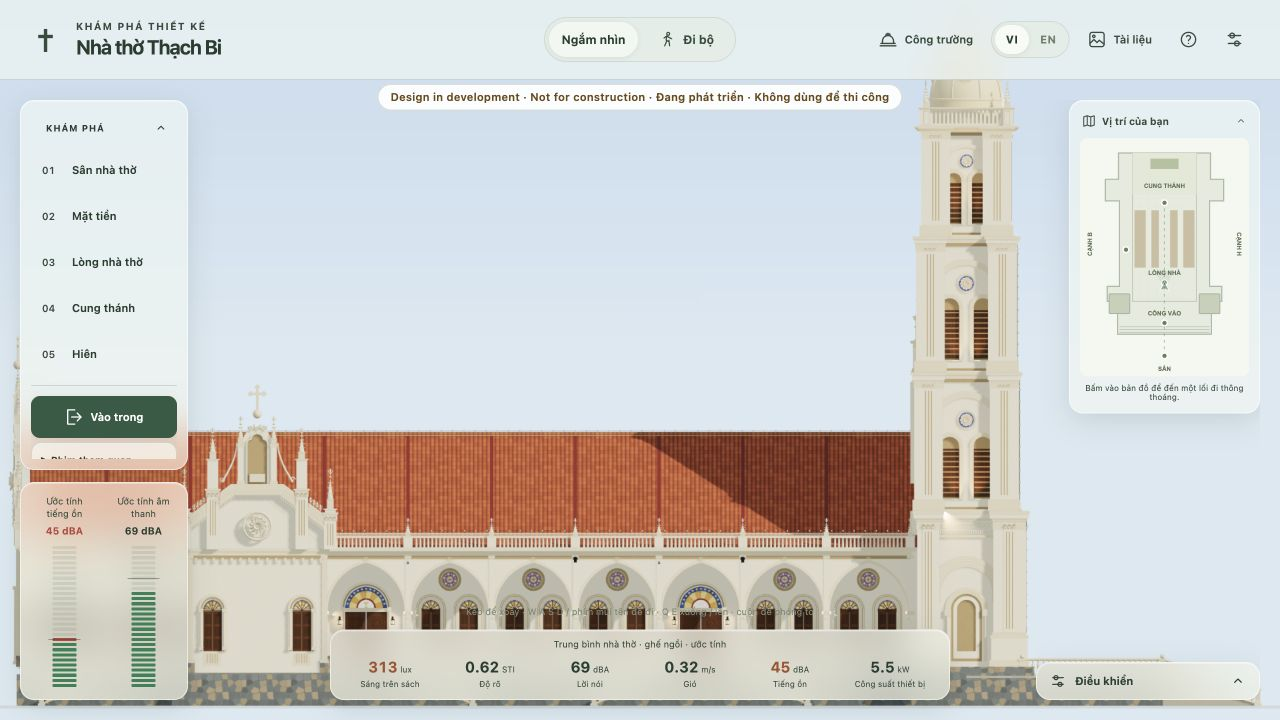
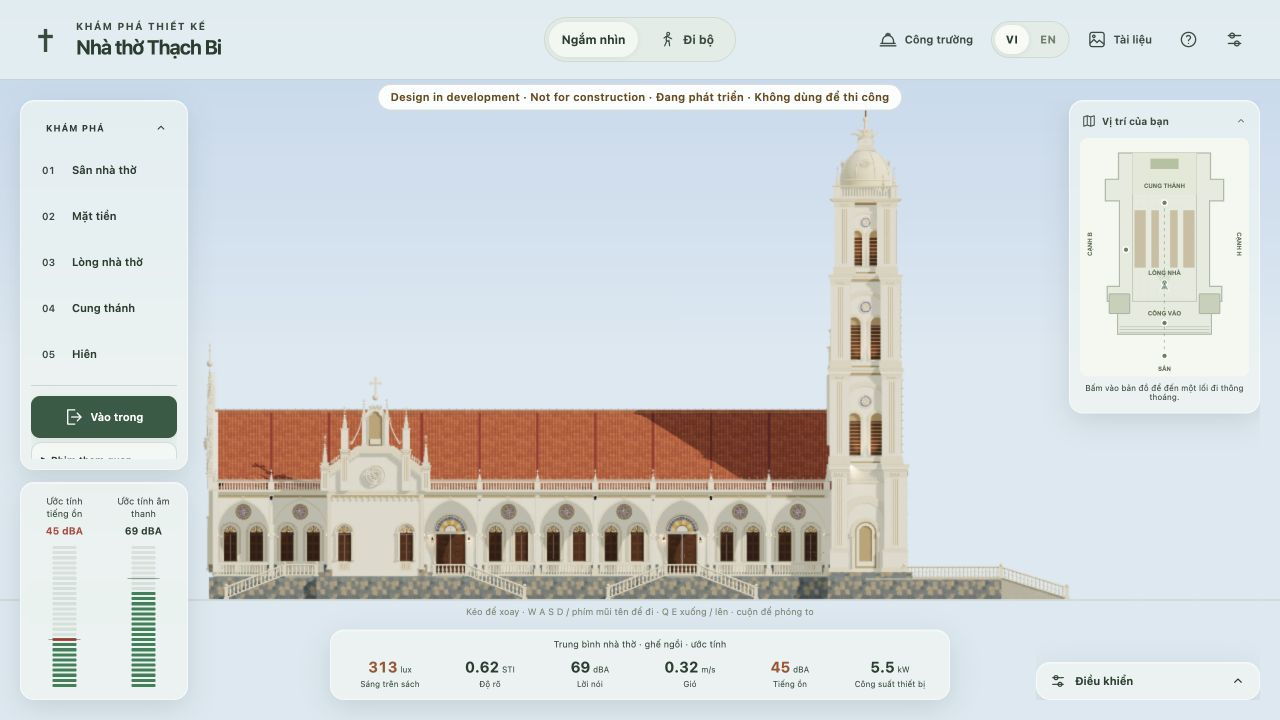
Add provisional landscape context around the church
Add unsurveyed grass and soil inside the existing tree beds, keeping the forecourt and modeled approach envelope clear. Rename the existing visibility control in English and Vietnamese, document the landscape's site-design limits, and refresh viewer script versions.

Replace roof-review screenshots after discovering cached scripts, and mark the earlier tile captures as inconclusive. Checks on the existing working tree: verify_landscape, verify_model --plan, verify_simulator --report --estimates, verify_texture_memory, web viewer inventory, lint, typecheck and 116 unit tests; desktop visit-only day/evening and landscape switch in both languages; git diff --check. Known light, sound, ventilation, concealment and other engineering holds remain open.

diff --git a/Thach_Bi_Viewer/realism.js b/Thach_Bi_Viewer/realism.js
@@ -693,6 +693,28 @@
     const landscape=new T.Group();landscape.name='Two rows of courtyard trees';building.add(landscape);
     const bark=new T.MeshStandardMaterial({color:'#66513a',roughness:1});
     const foliage=['#344a26','#496230','#627846'].map(color=>new T.MeshStandardMaterial({color,roughness:1,side:T.DoubleSide}));
+    // Presentation-only landscape: the site has not been surveyed. Keep the
+    // existing stair approaches and forecourt on their original surface.
+    const grassCanvas=document.createElement('canvas');grassCanvas.width=grassCanvas.height=256;
+    const grassContext=grassCanvas.getContext('2d');grassContext.fillStyle='#7c8d65';grassContext.fillRect(0,0,256,256);
+    let grassSeed=30102026;const grassRand=()=>{grassSeed=(Math.imul(grassSeed,1664525)+1013904223)>>>0;return grassSeed/4294967296;};
+    for(let i=0;i<4500;i++){
+      const x=grassRand()*256,y=grassRand()*256,light=grassRand()>.5;
+      grassContext.fillStyle=light?'rgba(194,204,155,.13)':'rgba(45,67,34,.13)';
+      grassContext.fillRect(x,y,1+grassRand()*2,1+grassRand()*3);
+    }
+    const grassMap=window.CHURCH_TEXTURES?.create(T,grassCanvas)||new T.CanvasTexture(grassCanvas);
+    grassMap.colorSpace=T.SRGBColorSpace;grassMap.wrapS=grassMap.wrapT=T.RepeatWrapping;grassMap.repeat.set(.18,.18);grassMap.anisotropy=anisotropy;
+    const grass=new T.MeshStandardMaterial({name:'Proposed grass · presentation only',map:grassMap,roughness:1,side:T.DoubleSide});
+    const soil=new T.MeshStandardMaterial({name:'Proposed tree-bed soil',color:'#5e4b35',roughness:1});
+    const bedGeo=new T.CircleGeometry(.66,32);
+    for(const sign of [-1,1]) {
+      const edge=[[-244,22.4],[-12,22.4],[3,22.35],[16,22.5],[30,22.35],[44,22.5],[58,22.4],[284,22.4]];
+      const outline=edge.concat([[284,177],[-244,177]]).map(([x,z])=>new T.Vector2(x,-sign*z));
+      const lawn=mesh(new T.ShapeGeometry(new T.Shape(outline)),grass,landscape,'Proposed lawn beyond courtyard');
+      lawn.rotation.x=-Math.PI/2;lawn.position.y=-2.025;lawn.castShadow=false;
+      lawn.userData={status:'CONCEPT / UNSURVEYED LANDSCAPE',source:'Illustrative site context; final grading and access pending'};
+    }
     const crownGeo=new T.IcosahedronGeometry(1,1);
     const leafShape=new T.Shape();leafShape.moveTo(0,-.5);leafShape.quadraticCurveTo(.35,0,0,.5);leafShape.quadraticCurveTo(-.35,0,0,-.5);
     const leafGeo=new T.ShapeGeometry(leafShape,3);
@@ -714,6 +736,8 @@
           blade.scale.set(.7,.7,.7);blade.rotation.set(rand()*6,rand()*6,rand()*6);
         }
       }
+      const bed=mesh(bedGeo,soil,landscape,'Tree bed soil · presentation concept');bed.rotation.x=-Math.PI/2;bed.position.set(x,-1.99,z);bed.castShadow=false;
+      bed.userData={status:'CONCEPT / UNSURVEYED LANDSCAPE',source:'Existing proposed tree rows; final planting and drainage pending'};
       const curb=mesh(new T.TorusGeometry(.72,.07,6,24),mat.trim,landscape,'Tree bed stone edging');curb.rotation.x=Math.PI/2;curb.position.set(x,-2.045,z);
     }
     // The central facade above the cornice follows the CAD file of 23 Oct 2026 (facade.js).
@@ -798,7 +822,7 @@
     data.assumptions.push('Exterior side doors now occupy the same outer wall plane as the windows, following the latest user correction. Doors open in Walk mode. Tower front arches remain open with the existing rear wall plane visible beyond.');
     data.assumptions.push('The sanctuary frame uses the three-lobed central and side arch silhouettes from section sheet 5. Curvature, relief depth and placement at axis 10 remain visual reconstructions pending a detailed longitudinal section.');
     data.assumptions.push('Side access follows the plan and the corrected side reference: paired flights at the first doorway, single flights flanking the projecting bay. Stair count, tread run, balustrade profiles and exact landing edges are proposed.');
-    data.assumptions.push('Ivory plaster, stone trim, terracotta tiles, rubble plinth and timber shafts follow the selected images. All maps are generated locally at physical scale; these are proposed finishes. Two rows of eight trees are landscaping proposals.');
+    data.assumptions.push('Ivory plaster, stone trim, terracotta tiles, rubble plinth and timber shafts follow the selected images. The finishes are proposed. Two rows of eight trees, lawn and tree-bed soil are unsurveyed presentation concepts; grading, planting, drainage and circulation require site design.');
     ctx.palettes=new Map();for(const m of materialScale.keys())ctx.palettes.set(m,{color:m.color.clone(),map:m.map,bump:m.bumpMap});
     api.stats={sideFlights:8,sideLandings:6,texturedMaterials:materialScale.size,lightGraphics};
     api.measurements=data.refinement;

diff --git a/Thach_Bi_Viewer/OPEN_CHURCH.html b/Thach_Bi_Viewer/OPEN_CHURCH.html
@@ -40,7 +40,7 @@
 <aside id="settingsPanel" class="settings-panel" hidden><div class="panel-title"><strong>View settings</strong><button id="closeSettings" class="close-button" aria-label="Close settings">×</button></div>
  <h3>Atmosphere</h3><div class="lighting-switch"><button id="dayLighting" class="active">☀ Day</button><button id="eveningLighting">☾ Evening</button></div>
  <label class="switch-row"><span>Show roof</span><input id="roofToggle" type="checkbox" checked></label><label class="switch-row"><span>Reference materials</span><input id="colorToggle" type="checkbox" checked></label><label class="switch-row"><span>Drawing grid</span><input id="gridToggle" type="checkbox"></label>
- <label class="switch-row"><span>Show trees</span><input id="treesToggle" type="checkbox" checked></label>
+ <label class="switch-row"><span>Show landscaping</span><input id="treesToggle" type="checkbox" checked></label>
  <label class="switch-row"><span>Doors &amp; windows</span><select id="openingsMode"><option value="auto">Open when walking</option><option value="open">Open</option><option value="closed">Closed</option></select></label>
  <label class="switch-row"><span>Timber frame</span><select id="frameStyle"><option value="drawn">As drawn (PDF)</option><option value="reference">Reference image</option></select></label>
  <label class="switch-row"><span>Window glass</span><select id="glassMode"><option value="clear">Clear</option><option value="stained" selected>Coloured</option></select></label>
@@ -101,7 +101,7 @@
 </div></div></section>
 <noscript><div class="startup-noscript"><h2>Open the interactive viewer in your browser</h2><p>This 3D model needs JavaScript and WebGL 2. A file preview may not run it.</p><p><a href="references/03-facade/native/2026-10-24-02-front-corner-day.png">View the exterior image</a> · <a href="references/00-overview/full-hd/2026-10-07-05-nave-overview-day.png">View the interior image</a></p></div></noscript>
 <script src="i18n.js?v=20261018-language-2"></script>
-<script src="i18n-vi.js?v=20261025-zones-1"></script>
+<script src="i18n-vi.js?v=20261030-landscape-1"></script>
 <script src="references.js?v=20261024-facade-images-1"></script>
 <script src="texture-memory.js?v=20261007-performance-5"></script>
 <script src="glass-art.js?v=20261006-clear-body-1"></script>
@@ -115,8 +115,8 @@
 <script src="porches.js?v=20261026-exterior-23102026-2"></script>
 <script src="stations.js?v=20261025-stations-2"></script>
 <script src="towers.js?v=20261026-exterior-23102026-4"></script>
-<script src="roofline.js?v=20261026-exterior-23102026-2"></script>
-<script src="realism.js?v=20261026-exterior-23102026-2"></script>
+<script src="roofline.js?v=20261030-roof-ends-1"></script>
+<script src="realism.js?v=20261030-landscape-3"></script>
 <script src="planning.js?v=20261007-sanctuary-21"></script>
 <script src="simulator/physics.js?v=20261006-estimates-1"></script>
 <script src="wing-saint-textures.js?v=20261009-native-offline-1"></script>

diff --git a/Thach_Bi_Viewer/i18n-vi.js b/Thach_Bi_Viewer/i18n-vi.js
@@ -45,7 +45,7 @@
     'Show roof': 'Hiện mái',
     'Reference materials': 'Vật liệu tham khảo',
     'Drawing grid': 'Lưới bản vẽ',
-    'Show trees': 'Hiện cây',
+    'Show landscaping': 'Hiện cảnh quan',
     'Doors & windows': 'Cửa đi & cửa sổ',
     'Open when walking': 'Mở khi đi bộ',
     'Open': 'Mở',

diff --git a/docs/decoration-finishes.md b/docs/decoration-finishes.md
@@ -50,7 +50,13 @@ The browser tool denied both the local preview origin and the user-opened file U
 
 The existing locally generated terracotta tile map in `realism.js` now gives the exposed ends a shallow rounded outline, a fine lip and restrained firing variation. The colour and bump maps use the same tile outline; the existing roof geometry, UV scale, material settings and random sequence for other finishes are retained. This is an illustrative surface treatment informed by the project's [appearance references](church-view-renderings.md), not a surveyed tile profile, selected product or evidence of age or condition. Tile dimensions, thickness, roof assembly, drainage, loads and fixing remain for the responsible designers; see the [roof specification](beams-roof-connections/SPECIFICATION.md).
 
-The texture changes no equipment, electrical line or position, collision, analysis input, plan geometry or drawing dimension, so the electrical registers, schedules and plan export need no refresh. Existing engineering holds, including the [central-view constraint](engineering/central-view-constraint.md), remain open. The viewer was inspected on desktop in visit-only mode in daylight and evening; the roof is dark in the existing evening scene. This is a visual review, not measured illumination or construction approval. The [website viewer contract](web/viewer.md) remains applicable.
+The texture changes no equipment, electrical line or position, collision, analysis input, plan geometry or drawing dimension, so the electrical registers, schedules and plan export need no refresh. Existing engineering holds, including the [central-view constraint](engineering/central-view-constraint.md), remain open. The initial desktop images may have used a cached script and do not prove the revised texture appeared; see the [evidence caution](../review/roof-finish-2026-10-30/README.md). The roof is dark in the existing evening scene. Visual review is not measured illumination or construction approval. The [website viewer contract](web/viewer.md) remains applicable.
+
+## Surrounding landscape · 30 October 2026
+
+The existing two rows of eight proposed trees now stand in soil within their existing stone rings, with a locally generated grass surface beyond the courtyard on both sides. The grass starts beyond `|Z| 22.3 m`; the existing model's side-stair approach envelope reaches `|Z| 21 m`. The forecourt and approaches keep the existing paving, and tree positions do not move. The grass is raised slightly above the presentation ground to avoid display depth conflicts; this is a rendering offset, not a site level. **CONCEPT / UNSURVEYED:** neither the grass edge nor the trees, grades, drainage, planting, accessible routes or actual site boundaries are surveyed or approved. A site designer and the parish must resolve them together.
+
+The existing tree visibility switch is now named **Show landscaping / Hiện cảnh quan** because it hides the grass and tree beds as well as the trees. `treesToggle` remains the same control ID. No equipment, electrical line, calculated boundary, walk collision or building dimension changes; plan and electrical exports do not encode the presentation planting. The existing category registers and their concurrent edits are untouched. See the [desktop review](../review/grounds-2026-10-30/README.md). The [web viewer contract](web/viewer.md), [central-view constraint](engineering/central-view-constraint.md), [roof specification](beams-roof-connections/SPECIFICATION.md) and [appearance references](church-view-renderings.md) were checked; no engineering hold is closed.
 
 ## Outstanding review
 

diff --git a/review/grounds-2026-10-30/README.md b/review/grounds-2026-10-30/README.md
@@ -1,0 +1,18 @@
+# Surrounding landscape review · 30 October 2026
+
+**CONCEPT · In development / Đang phát triển · Not for construction / Không dùng để thi công.**
+
+Desktop visit-only views of the [daylight](day.jpg), [roof detail](roof-detail.jpg) and [evening](evening.jpg) model, using the fresh local origin and updated script-version URLs. The lawn and tree-bed soil are illustrative, not a surveyed site, grading, planting or drainage plan. The forecourt and modeled side approaches remain visually unplanted; this is not an access compliance check. See the [finish record](../../docs/decoration-finishes.md) for locations and limits. The existing landscape switch was checked on/off, and its English and Vietnamese labels were inspected. No console errors were observed in the session.
+
+The images use `a37f357` plus the landscape changes and the existing uncommitted working tree. Entrance-wall and simulator changes were already in progress; the commit alone cannot reproduce the full scene. SHA-256 at capture:
+
+| File | SHA-256 |
+| --- | --- |
[6 lines of base64/hex data omitted]
+
+`verify_landscape.cjs`, `verify_model.cjs --plan`, `verify_simulator.cjs --report --estimates`, texture policy, website viewer-copy, lint, type and unit checks passed. The calculation audit retains unmet targets: 87% of seats reach 200 lux, wing minimum lighting is 97 lux, wing STI is 0.411 minimum / 0.486 average, feedback margins are 0.9 / 1.4 dB, and estimated exhaust ventilation is about 3.5 ACH versus the model's 4–6 comfort target. These checks and modeled estimates are not approval of the landscape, lighting or building.

diff --git a/review/exterior-roof-ends-2026-10-30/README.md b/review/exterior-roof-ends-2026-10-30/README.md
@@ -4,12 +4,12 @@
 
 The [coordinated record](../../docs/exterior-23102026/rear-and-roofline.md) explains the measured model overrun, the display-only clipping and remaining design questions. Desktop visit-only views: [B wing](side-b-day.jpg), [H wing](side-h-day.jpg), [sanctuary end by day](rear-day.jpg) and [by evening](rear-evening.jpg). Trees were turned off to expose the elevation. The remaining visible red roof behind the end parapets is not evidence that all intersections or roof detailing are solved. The lower wing and rear ornament remains simplified compared with the drawings. No third-party drawing is reproduced here.
 
-The captures use `6106c38` plus this roof change and the pre-existing uncommitted working tree, which includes the entrance-wall, simulator and electrical revisions. The commit alone cannot reproduce the complete scene. Source hashes at capture:
+**Evidence correction:** the first browser session reused cached scripts, so its screenshots did not reliably show the roof change. These four images were replaced after changing the script-version URLs and opening a fresh local origin. They use `a37f357`, the subsequent proposed landscape work (hidden in these views), and the pre-existing uncommitted working tree, which includes the entrance-wall, simulator and electrical revisions. The roof commit alone cannot reproduce the complete scene. Source hashes at recapture:
 
 | File | SHA-256 |
 | --- | --- |
[6 lines of base64/hex data omitted]

diff --git a/docs/web/viewer.md b/docs/web/viewer.md
@@ -27,6 +27,8 @@ The website now serves `Thach_Bi_Viewer/` itself. There is one model, so the web
 
 ## Language (since 18 October 2026)
 
+**Landscape context, 30 October 2026:** the viewer's existing tree switch is now labelled **Show landscaping / Hiện cảnh quan** and hides the proposed lawn and tree-bed surfaces with the trees. This is unsurveyed visual context, not a site plan; see the [finish record](../decoration-finishes.md#surrounding-landscape--30-october-2026). Script version URLs were refreshed for the roofline and landscape updates so a returning browser requests the revised files.
+
 **Reference images, 24 October 2026:** the References panel and startup/failure front/exterior links use four new native updated-model façade images, selected through `references.js` and the current reference manifest. The PNGs in `references/03-facade/native/` are 1672 × 941 byte-identical copies of the dated generated masters, labelled as concepts. They replace the old front/side/detail selections while preserving stable IDs and dated provenance. `prepare-viewer.mjs` includes these images through the existing referenced-image scan. The standalone dated gallery, manifests and Markdown sources are still excluded from the web copy; no website editorial release or deployment is implied. See [the rendering record](../church-view-renderings.md).
 
 - One language on screen at a time: Vietnamese by default, English on the EN switch. The switch sits in the viewer's header (VI | EN) in normal and visit-only mode, and the site view's own VI | EN switch shares the same choice.

diff --git a/review/roof-finish-2026-10-30/README.md b/review/roof-finish-2026-10-30/README.md
@@ -2,6 +2,8 @@
 
 **CONCEPT · In development / Đang phát triển · Not for construction / Không dùng để thi công.**
 
+**Evidence caution, later 30 October:** a later check found that this browser could reuse a cached `realism.js` when the script URL did not change. These original captures cannot establish that the revised tile texture was loaded, despite the source hashes below. A [later daylight roof detail](../grounds-2026-10-30/roof-detail.jpg) uses a fresh origin and versioned script URL; the historical images remain rather than being represented as definitive after-change evidence.
+
 Desktop visit-only viewer, standard graphics, showing the local procedural tile finish in [daylight](day.jpg), [a closer daylight view](detail.jpg) and [evening](evening.jpg). The roof is much darker at night under the existing lighting; these images are visual checks, not illumination measurements. The image follows the project's concept appearance, not a selected tile or surveyed condition. No private reference drawing is included.
 
 The screenshots and checks used `c88fc6d` plus the existing uncommitted working tree and this roof finish change; the commit alone does not reproduce the complete scenes. In particular, the entrance wall, simulator and electrical changes were already in progress and are outside this roof pass. At capture the SHA-256 hashes were:
